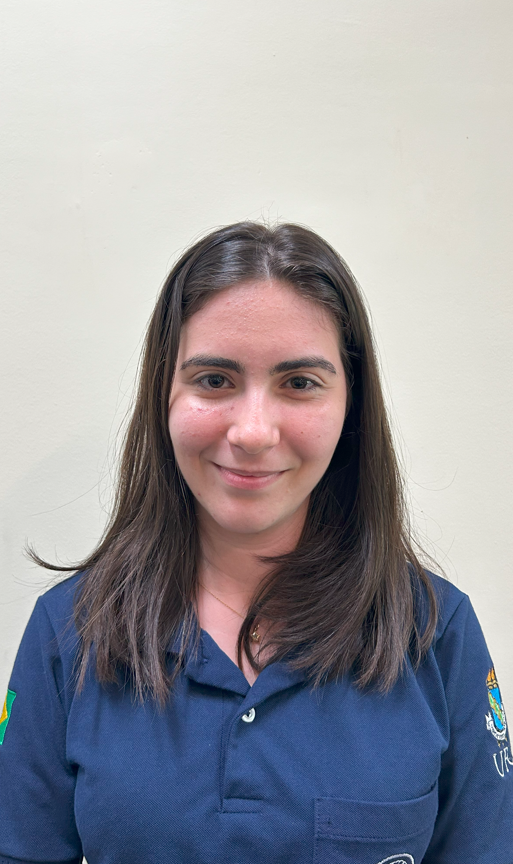
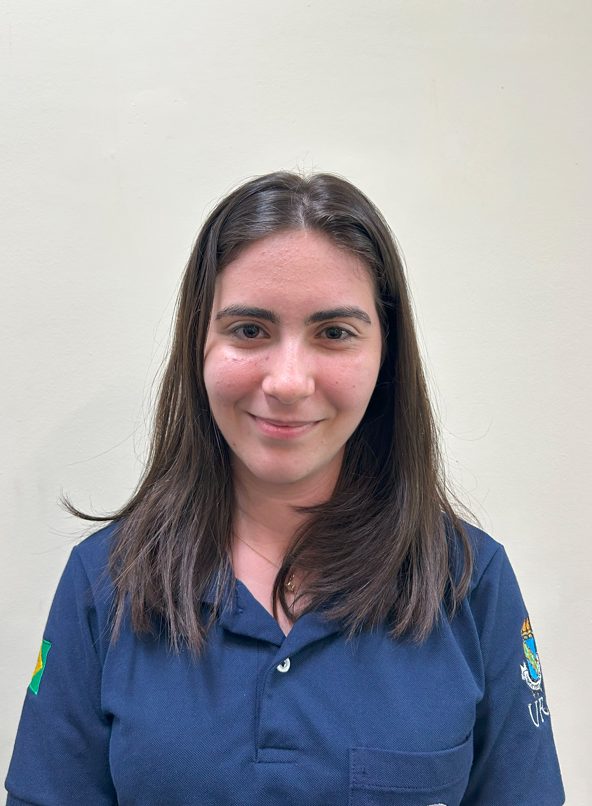
ADD ROMULO

diff --git a/_staff_members/95-Rômulo.md b/_staff_members/95-Rômulo.md
@@ -1,0 +1,7 @@
+---
+name: Rômulo Gabriel
+position: Graduando
+image_path: /images/stafff/RML.png
+link: https://lattes.cnpq.br/3425826858113947
+blurb:
+---
